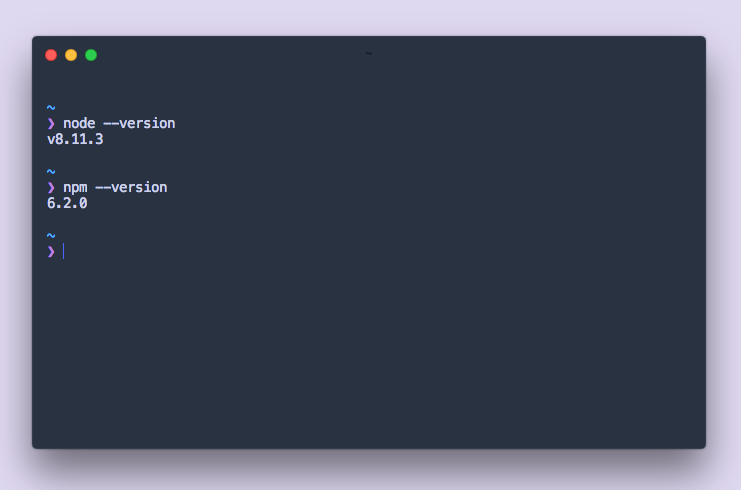
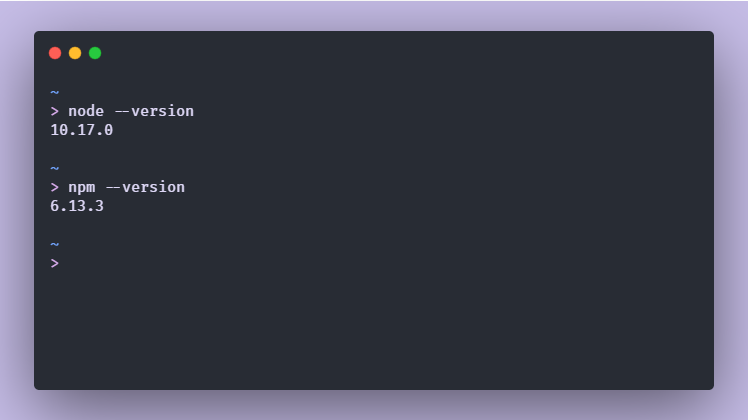
Docs: Update install instructions for Windows and Linux on the "Part 0" page (#18262)
* improve setup instructions for windows and linux

* grammatical tweak

* add instructions per package manager on linux

* remove emoji, add npm info paragraph

* Add instructions similar to "Gatsby on Linux" page

* lint, fix typo, small improvements

* lint part 0 tutorial

* update image with correct Node.js versions

* Apply suggestions from code review

- Wording improvements
- Structure improvements

* Wording fix

* add node and npm version check instructions

Changed region(s): [[0.0, 0.0, 1.0, 1.0], [0.1552, 0.4333, 0.2483, 0.4643]]

diff --git a/docs/tutorial/part-zero/index.md b/docs/tutorial/part-zero/index.md
@@ -10,47 +10,88 @@ Before you start building your first Gatsby site, you’ll need to familiarize y
 
 The command line is a text-based interface used to run commands on your computer. You’ll also often see it referred to as the terminal. In this tutorial, we’ll use both interchangeably. It’s a lot like using the Finder on a Mac or Explorer on Windows. Finder and Explorer are examples of graphical user interfaces (GUI). The command line is a powerful, text-based way to interact with your computer.
 
-Take a moment to locate and open up the command line interface (CLI) for your computer. Depending on which operating system you are using, see [**instructions for Mac**](http://www.macworld.co.uk/feature/mac-software/how-use-terminal-on-mac-3608274/), [**instructions for Windows**](https://www.quora.com/How-do-I-open-terminal-in-windows) or [**instructions for Linux**](https://www.howtogeek.com/140679/beginner-geek-how-to-start-using-the-linux-terminal/).
+Take a moment to locate and open up the command line interface (CLI) for your computer. Depending on which operating system you are using, see [**instructions for Mac**](http://www.macworld.co.uk/feature/mac-software/how-use-terminal-on-mac-3608274/), [**instructions for Windows**](https://www.lifewire.com/how-to-open-command-prompt-2618089) or [**instructions for Linux**](https://www.howtogeek.com/140679/beginner-geek-how-to-start-using-the-linux-terminal/).
 
-## Install Homebrew for Node.js
+_Note: If you’re new to the command line, "running" a command, means writing a given set of instructions in your command prompt, and hitting the Enter key”. Commands will be shown in a highlighted box, something like `node --version`, but not every highlighted box is a command! If something is a command it will be mentioned as something you have to run/execute._
 
-To install Gatsby and Node.js, it is recommended to use [Homebrew](https://brew.sh/). A little set-up in the beginning can save you from some headaches later on!
+## Install Node.js for your appropriate operating system
 
-How to install or verify Homebrew on your computer:
+Node.js is an environment that can run JavaScript code outside of a web browser. Gatsby is built with Node.js. To get up and running with Gatsby, you’ll need to have a recent version installed on your computer. npm comes bundled with Node.js so if you don't have npm, chances are that you don't have Node.js either.
+
+### Mac instructions
+
+To install Gatsby and Node.js on a Mac, it is recommended to use [Homebrew](https://brew.sh/). A little set-up in the beginning can save you from some headaches later on!
+
+#### How to install or verify Homebrew on your computer:
 
 1. Open your Terminal.
 1. See if Homebrew is installed by running `brew -v`. You should see "Homebrew" and a version number.
-1. If not, download and install [Homebrew with the instructions](https://docs.brew.sh/Installation) for your operating system (Mac, Linux or Windows).
+1. If not, download and install [Homebrew with the instructions](https://docs.brew.sh/Installation).
 1. Once you've installed Homebrew, repeat step 2 to verify.
 
-### Mac Users: install Xcode Command Line Tools
+#### Install Xcode Command Line Tools:
 
 1. Open your Terminal.
-1. On a Mac, install Xcode Command Line Tools by running `xcode-select --install`.
-   1. If that fails, download it [directly from the Apple site](https://developer.apple.com/download/more/), after signing-in with Apple developer account
+1. Install Xcode Command line tools by running `xcode-select --install`.
+   - If that fails, download it [directly from Apple's site](https://developer.apple.com/download/more/), after signing-in with an Apple developer account
 1. After being prompted to start the installation, you'll be prompted again to accept a software license for the tools to download.
 
-## ⌚ Install Node.js and npm
+#### Install Node
 
-Node.js is an environment that can run JavaScript code outside of a web browser. Gatsby is built with Node.js. To get up and running with Gatsby, you’ll need to have a recent version installed on your computer.
+1. Open your Terminal
+2. Run `brew install node`
+   - If you don't want to install it through homebrew, download the latest Node.js version from [the official Node.js website](https://nodejs.org/en/), double click on the downloaded file and go through the installation process.
 
-_Note: Gatsby's minimum supported Node.js version is Node 8, but feel free to use a more recent version._
+### Windows Instructions
 
-1. Open your Terminal.
-1. Run `brew update` to make sure you have the latest version of Homebrew.
-1. Run this command to install Node and npm in one go: `brew install node`
+- Download and install the latest Node.js version from [the official Node.js website](https://nodejs.org/en/)
 
-Once you have followed the installation steps, make sure everything was installed properly:
+### Linux Instructions
 
-### Check your Node.js installation
+Install nvm (Node Version Manager) and needed dependencies. nvm is used to manage Node.js and all its associated versions.
 
-1.  Open up your terminal.
-2.  Run `node --version`. (If you’re new to the command line, “run `command`” means “type `node --version` in the command prompt, and hit the Enter key”. From here on, this is what we mean by “run `command`”).
-3.  Run `npm --version`.
+_💡 If when installing a package, it asks for confirmation, type `y` and press enter._
 
-The output of each of those commands should be a version number. Your versions may not be the same as those shown below! If entering those commands doesn’t show you a version number, go back and make sure you have installed Node.js.
+#### Ubuntu, Debian, and other `apt` based distros:
+
+1. Run `sudo apt update` and then `sudo apt -y upgrade` to make sure your Linux distribution is ready to go.
+2. Run `sudo apt-get install curl` to install curl which allows you to transfer data and download additional dependencies.
+3. After it finishes installing, run `curl -o- https://raw.githubusercontent.com/nvm-sh/nvm/v0.35.1/install.sh | bash` to download the latest nvm version.
+4. To confirm this has worked, use the following command. `nvm --version`. The output should be a version number.
+5. [Set default Node.js version](#set-default-nodejs-version)
+
+#### Arch, Manjaro and other `pacman` based distros:
+
+1. Run `sudo pacman -Sy` to make sure your distribution is ready to go.
+2. These distros come installed with curl, so you can use that to download nvm.
+   `curl -o- https://raw.githubusercontent.com/nvm-sh/nvm/v0.35.1/install.sh | bash`
+3. Before using nvm, you need to install additional dependencies by running `sudo pacman -S grep awk tar`.
+4. To confirm this has worked, use the following command. `nvm --version`. The output should be a version number.
+5. [Set default Node.js version](#set-default-nodejs-version)
+
+#### Fedora, RedHat, and other `dnf` based distros:
+
+1. These distros come installed with curl, so you can use that to download nvm.
+   `curl -o- https://raw.githubusercontent.com/nvm-sh/nvm/v0.35.1/install.sh | bash`
+2. To confirm this has worked, use the following command. `nvm --version`. The output should be a version number.
+3. [Set default Node.js version](#set-default-nodejs-version)
+
+If the Linux distribution you are using is not listed here, please find instructions on the web.
+
+#### Set default Node.js version
+
+When nvm is installed, it does not default to a particular node version. You’ll need to install the version you want and give nvm instructions to use it. This example uses the latest release of version 10, but more recent version numbers can be used instead.
+
+```shell
+nvm install 10
+nvm use 10
+```
+
+To confirm that this worked, you can run `npm --version` and `node --version`. The output should look similar to the screenshot below, showing version numbers in response to the commands.
 
 ![Check node and npm versions in terminal](01-node-npm-versions.png)
+
+Once you have followed the installation steps and you have checked everything is installed properly, you can continue to the next step.
 
 ## Install Git
 
